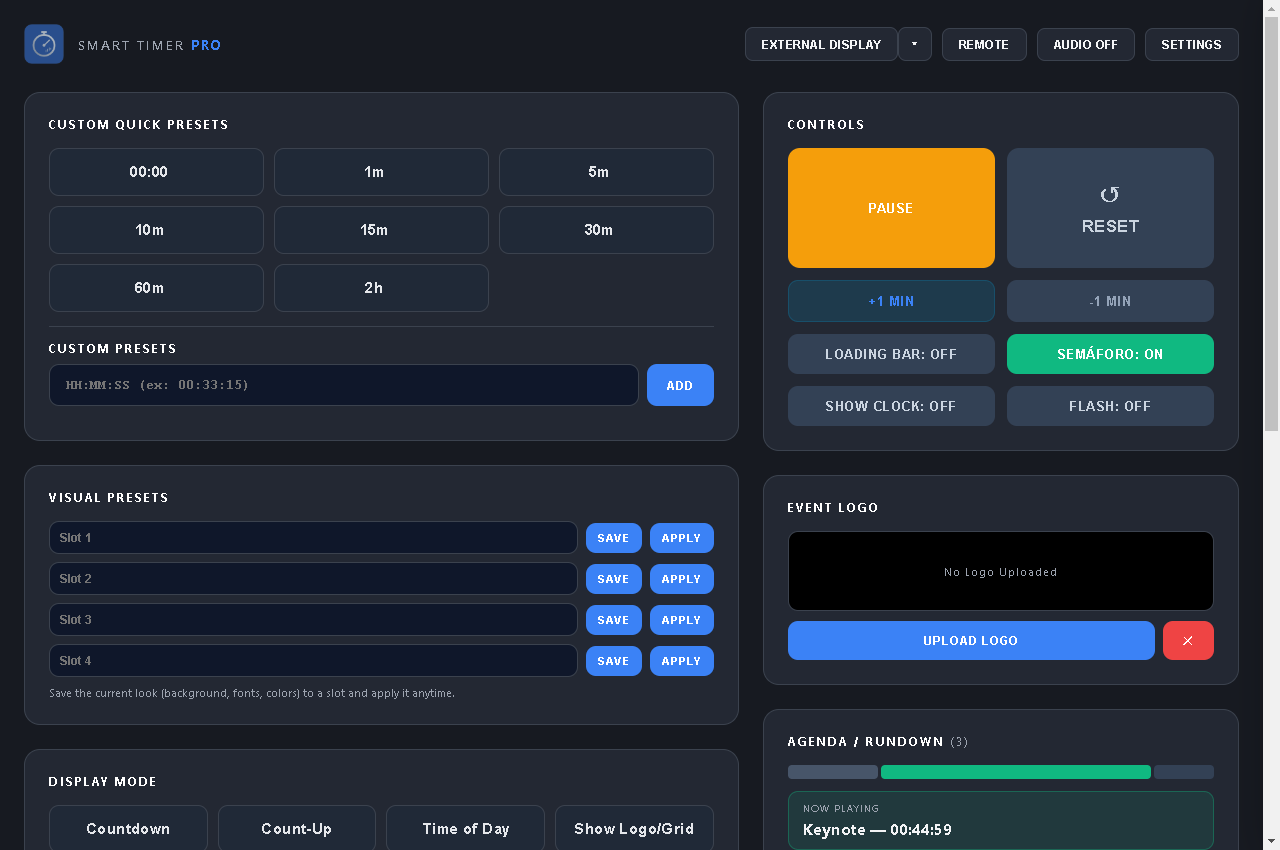
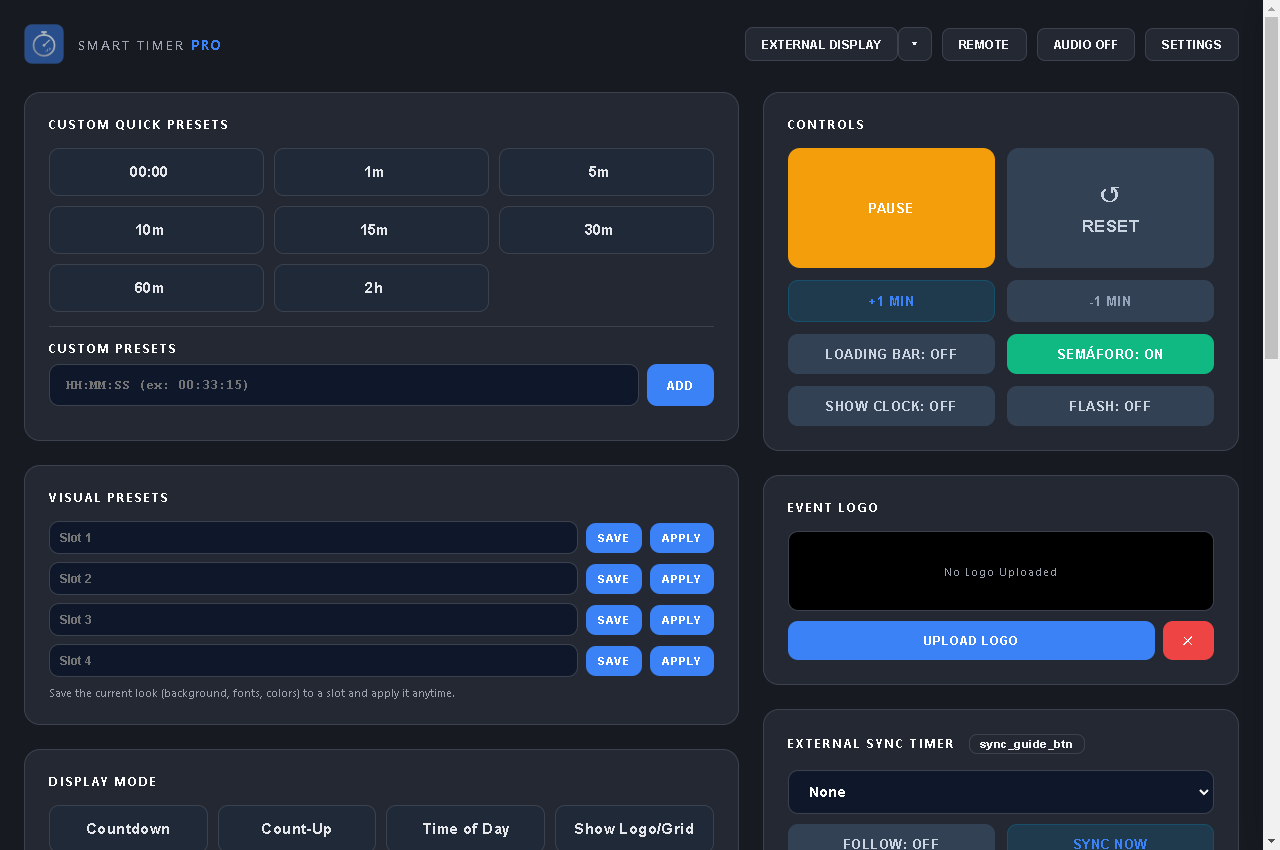
v2.0.0: fix sync presenter view (settingsUpdate was rebuilding the main stage), center sync stack, add sync presenter screenshot step

Changed region(s): [[0.5938, 0.8565, 0.9688, 1.0], [0.9688, 0.4282, 1.0, 0.52]]

diff --git a/scripts/capture-screenshots.js b/scripts/capture-screenshots.js
@@ -118,6 +118,28 @@ app.whenReady().then(async () => {
     await api('/api/mode?set=countdown');
     await capture(BASE + '/presenter.html', 'screenshot_presenter.png', 1280, 720);
 
+    // --- 4b. External sync presenter (view=sync, OSC remaining 600s) ---
+    console.log('step 4b');
+    await api('/api/settings', {
+        method: 'POST',
+        headers: { 'Content-Type': 'application/json' },
+        body: JSON.stringify({ syncProvider: 'osc', syncOscPort: 9321, syncOscAddress: '/sync/position', syncOscMode: 'seconds', syncDuration: 600 }),
+    });
+    await wait(1000);
+    const dgram = require('dgram');
+    const buf = Buffer.alloc(1024);
+    const addr = Buffer.from('/sync/position', 'utf8');
+    addr.copy(buf, 0);
+    buf.writeInt32BE(0, addr.length);
+    const typeIdx = Math.ceil((addr.length + 1) / 4) * 4;
+    buf.write(',f', typeIdx, 'utf8');
+    const valIdx = Math.ceil((typeIdx + 3) / 4) * 4;
+    buf.writeFloatBE(600, valIdx);
+    const sock = dgram.createSocket('udp4');
+    sock.send(buf.subarray(0, valIdx + 4), 9321, '127.0.0.1', () => sock.close());
+    await wait(1000);
+    await capture(BASE + '/presenter.html?view=sync', 'screenshot_sync_presenter.png', 1280, 720);
+
     // --- 5. Presenter warning + semaforo + message ---
     console.log('step 5');
     await api('/api/reset?sec=90');

diff --git a/public/presenter.html b/public/presenter.html
@@ -577,6 +577,9 @@
                 var stack = document.createElement('div');
                 stack.className = 'stack';
                 stack.id = 'stack';
+                stack.style.left = '50%';
+                stack.style.top = '50%';
+                stack.style.gap = 'min(1.5vw, 3vh)';
                 stage.appendChild(stack);
 
                 var cap = document.createElement('div');
@@ -632,7 +635,11 @@
             currentSettings = s;
             if (currentState) {
                 currentState.settings = s;
-                buildStage(currentState);
+                if (syncView) {
+                    buildSyncStage(currentState);
+                } else {
+                    buildStage(currentState);
+                }
             }
         });
 
